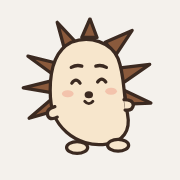
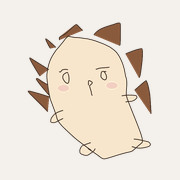
도치: 직접 그린 그림의 선은 그대로 두고 색만 입혀서 사용
- images/doci.png (원본 선 유지, 몸통 크림색·가시 밤색·볼터치)
- 앱 아이콘도 같은 그림으로 교체, 로딩 때 살짝 흔들리게

Claude-Session: https://claude.ai/code/session_01HRZhSQmDeYGswkUaTWCnCH

Changed region(s): [[0.1111, 0.0833, 0.8611, 0.8889]]

diff --git a/kync-ui.js b/kync-ui.js
@@ -63,74 +63,24 @@ const KYNC_CONFIG = {
   window.GOOGLE_G = '<svg width="18" height="18" viewBox="0 0 48 48" aria-hidden="true"><path fill="#FFC107" d="M43.6 20.5H42V20H24v8h11.3C33.7 32.7 29.2 36 24 36c-6.6 0-12-5.4-12-12s5.4-12 12-12c3.1 0 5.8 1.2 7.9 3.1l5.7-5.7C34 6.1 29.3 4 24 4 12.9 4 4 12.9 4 24s8.9 20 20 20 20-8.9 20-20c0-1.3-.1-2.4-.4-3.5z"/><path fill="#FF3D00" d="M6.3 14.7l6.6 4.8C14.7 15.1 19 12 24 12c3.1 0 5.8 1.2 7.9 3.1l5.7-5.7C34 6.1 29.3 4 24 4 16.3 4 9.7 8.3 6.3 14.7z"/><path fill="#4CAF50" d="M24 44c5.2 0 9.9-2 13.4-5.2l-6.2-5.2C29.2 35.1 26.7 36 24 36c-5.2 0-9.6-3.3-11.3-7.9l-6.5 5C9.5 39.6 16.2 44 24 44z"/><path fill="#1976D2" d="M43.6 20.5H42V20H24v8h11.3c-.8 2.2-2.2 4.2-4.1 5.6l6.2 5.2C37 39.2 44 34 44 24c0-1.3-.1-2.4-.4-3.5z"/></svg>';
 })();
 
-/* ── 브랜드: 고슴도치 '도치' (보영이 직접 그린 캐릭터를 다듬은 것) ── */
+/* ── 브랜드: 고슴도치 '도치' — 보영이 직접 그린 그림(선은 그대로, 색만 입힘) ── */
 const KyncBrand = (function () {
-  const C = { line: '#3B2A21', quill: '#8A5A3C', body: '#F7E6CC', blush: '#F0A08C' };
-  const SW = 2.8;
-  const ST = `stroke="${C.line}" stroke-width="${SW}" stroke-linejoin="round" stroke-linecap="round"`;
-  // 살짝 기울어진 몸통
-  const BODY = 'M44 21C60 15 78 21 84 35C90 51 88 64 92 82C95 97 88 106 74 108C62 110 49 106 40 98C30 89 26 79 26 62C26 42 32 27 44 21Z';
-  // 몸 바깥으로 뻗은 가시 (왼쪽 3, 위 3, 오른쪽 2)
-  const SPIKES = [
-    'M32 39L7 33L29 49Z', 'M27 54L3 60L27 64Z', 'M28 69L8 86L32 79Z',
-    'M38 26L32 4L47 20Z', 'M53 17L60 1L66 17Z', 'M73 21L96 11L82 32Z', 'M86 43L111 40L88 56Z', 'M89 62L112 73L91 74Z',
-  ];
+  const SRC = 'images/doci.png';
+  const RATIO = 522 / 477;   // 그림 세로/가로 비율
 
-  function face(mood) {
-    const eye = x => `<ellipse cx="${x}" cy="55" rx="3.3" ry="4.4" fill="${C.line}"/><circle cx="${x + 1}" cy="53.5" r="1" fill="#fff"/>`;
-    let brows = `<path d="M44 44.5l9-1.5M65 43l9 1" stroke="${C.line}" stroke-width="${SW}" stroke-linecap="round"/>`;
-    let eyes = eye(48) + eye(70);
-    let mouth = `<path d="M59 70.5v4" stroke="${C.line}" stroke-width="2.4" stroke-linecap="round"/>`;
-    if (mood === 'happy') {
-      brows = `<path d="M44 42.5q4.5-2.5 9-1M65 41.5q4.5-1.5 9 1" stroke="${C.line}" stroke-width="${SW}" fill="none" stroke-linecap="round"/>`;
-      eyes = `<path d="M44.5 56q3.5-5 7 0M66.5 55q3.5-5 7 0" stroke="${C.line}" stroke-width="${SW}" fill="none" stroke-linecap="round"/>`;
-      mouth = `<path d="M55.5 71.5q3.5 4 7 0" stroke="${C.line}" stroke-width="2.4" fill="none" stroke-linecap="round"/>`;
-    } else if (mood === 'sleepy') {
-      eyes = `<path d="M45 56h7M67 55h7" stroke="${C.line}" stroke-width="${SW}" stroke-linecap="round"/>`;
-    } else if (mood === 'wow') {
-      brows = `<path d="M44 41l9-2M65 39.5l9 2" stroke="${C.line}" stroke-width="${SW}" stroke-linecap="round"/>`;
-      mouth = `<ellipse cx="59" cy="73" rx="2.4" ry="3" fill="${C.line}"/>`;
-    }
-    return `${brows}${eyes}<ellipse cx="59" cy="66" rx="3.6" ry="3" fill="${C.line}"/>${mouth}` +
-      `<ellipse cx="41" cy="65" rx="5" ry="3" fill="${C.blush}" opacity=".5"/><ellipse cx="78" cy="63" rx="5" ry="3" fill="${C.blush}" opacity=".5"/>`;
-  }
-
-  // mood: default | happy | sleepy | wow
+  // size = 가로 폭(px). mood는 예전 호출과 맞추려고 받기만 해요 (그림은 하나)
   function mascot(mood, size, opts) {
     opts = opts || {};
-    const shadow = opts.shadow === false ? '' : `<ellipse cx="62" cy="117" rx="32" ry="4" fill="rgba(43,36,33,.10)"/>`;
-    return `<svg class="mascot ${opts.cls || ''}" width="${size}" height="${Math.round(size * 124 / 120)}" viewBox="0 0 120 124" aria-hidden="true">${shadow}
-      ${SPIKES.map(d => `<path d="${d}" fill="${C.quill}" ${ST}/>`).join('')}
-      <path d="${BODY}" fill="${C.body}" ${ST}/>
-      <path d="M30 76q-8 2-6 8q2 4 8 1" fill="${C.body}" ${ST}/>
-      <path d="M89 70q8 0 8 5q-1 5-7 4" fill="${C.body}" ${ST}/>
-      <ellipse cx="49" cy="111" rx="9" ry="5" fill="${C.body}" ${ST}/>
-      <ellipse cx="84" cy="109" rx="9" ry="5" fill="${C.body}" ${ST}/>
-      ${face(mood)}</svg>`;
+    return `<img class="mascot ${opts.cls || ''}" src="${SRC}" width="${size}" height="${Math.round(size * RATIO)}" alt="" aria-hidden="true" draggable="false">`;
   }
-
-  // 몸을 동그랗게 만 모습 (답을 기다릴 때, 로딩)
+  // 기다리는 중·로딩 (로딩 화면에서는 CSS로 살짝 흔들려요)
   function curled(size, cls) {
-    const spikes = [];
-    for (let i = 0; i < 12; i++) {
-      const a = (i / 12) * Math.PI * 2 - Math.PI / 2, w = 0.2;
-      const p = (r, t) => `${(60 + Math.cos(t) * r).toFixed(1)} ${(60 + Math.sin(t) * r).toFixed(1)}`;
-      spikes.push(`M${p(34, a - w)}L${p(56, a)}L${p(34, a + w)}Z`);
-    }
-    return `<svg class="mascot ${cls || ''}" width="${size}" height="${size}" viewBox="0 0 120 120" aria-hidden="true">
-      ${spikes.map(d => `<path d="${d}" fill="${C.quill}" ${ST}/>`).join('')}
-      <circle cx="60" cy="60" r="36" fill="${C.body}" ${ST}/>
-      <path d="M46 62h8M66 62h8" stroke="${C.line}" stroke-width="${SW}" stroke-linecap="round"/>
-      <ellipse cx="60" cy="71" rx="3.4" ry="2.8" fill="${C.line}"/>
-      <ellipse cx="42" cy="71" rx="5" ry="3" fill="${C.blush}" opacity=".5"/><ellipse cx="78" cy="71" rx="5" ry="3" fill="${C.blush}" opacity=".5"/></svg>`;
+    return mascot('default', size, { cls });
   }
-
-  // 로고: 도치 + kync
   function wordmark(cls) {
-    return `<span class="wordmark ${cls || ''}" aria-label="kync">${mascot('default', 32, { shadow: false, cls: 'wm-mark' })}<span class="wm-text">kync</span></span>`;
+    return `<span class="wordmark ${cls || ''}" aria-label="kync">${mascot('default', 28, { cls: 'wm-mark' })}<span class="wm-text">kync</span></span>`;
   }
-
-  return { mascot, curled, wordmark, C };
+  return { mascot, curled, wordmark, SRC };
 })();
 
 /* ── 화면 도구 ── */

diff --git a/index.html b/index.html
@@ -12,7 +12,8 @@
   <meta name="apple-mobile-web-app-capable" content="yes" />
   <meta name="apple-mobile-web-app-title" content="Kync" />
   <link rel="preload" href="fonts/SUIT-Variable.woff2" as="font" type="font/woff2" crossorigin />
-  <link rel="stylesheet" href="kync.css?v=20261012-3" />
+  <link rel="preload" href="images/doci.png" as="image" />
+  <link rel="stylesheet" href="kync.css?v=20261012-4" />
   <script>
     // 활동 페이지에서 돌아온 경우: 로그인 확인이 끝나면 그 탭을 열어요 (enterApp에서 처리)
     (function () {
@@ -385,17 +386,17 @@
 <script src="https://www.gstatic.com/firebasejs/9.23.0/firebase-auth-compat.js"></script>
 <script src="https://www.gstatic.com/firebasejs/9.23.0/firebase-firestore-compat.js"></script>
 
-<script src="kync-ui.js?v=20261012-3"></script>
-<script src="kync-legal.js?v=20261012-3"></script>
-<script src="firebase-system.js?v=20261012-3"></script>
-<script src="kync-account.js?v=20261012-3"></script>
-<script src="kync-core.js?v=20261012-3"></script>
-<script src="kync-features.js?v=20261012-3"></script>
-<script src="kync-balance.js?v=20261012-3"></script>
-<script src="kync-diary.js?v=20261012-3"></script>
-<script src="kync-quests2.js?v=20261012-3"></script>
-<script src="kync-counsel.js?v=20261012-3"></script>
-<script src="kync-activity.js?v=20261012-3"></script>
+<script src="kync-ui.js?v=20261012-4"></script>
+<script src="kync-legal.js?v=20261012-4"></script>
+<script src="firebase-system.js?v=20261012-4"></script>
+<script src="kync-account.js?v=20261012-4"></script>
+<script src="kync-core.js?v=20261012-4"></script>
+<script src="kync-features.js?v=20261012-4"></script>
+<script src="kync-balance.js?v=20261012-4"></script>
+<script src="kync-diary.js?v=20261012-4"></script>
+<script src="kync-quests2.js?v=20261012-4"></script>
+<script src="kync-counsel.js?v=20261012-4"></script>
+<script src="kync-activity.js?v=20261012-4"></script>
 
 <script>
 // 탭 전환 (selectTab은 kync-ui.js에 있어요)

diff --git a/quiz.html b/quiz.html
@@ -6,7 +6,7 @@
   <title>Kync — 대화 유형 검사</title>
   <meta name="theme-color" content="#F4F1EC" />
   <link rel="icon" href="icons/icon-192.png" />
-  <link rel="stylesheet" href="kync.css?v=20261012-3" />
+  <link rel="stylesheet" href="kync.css?v=20261012-4" />
   <script src="https://cdnjs.cloudflare.com/ajax/libs/Chart.js/4.4.1/chart.umd.min.js"></script>
 </head>
 <body>
@@ -101,12 +101,12 @@
 <script src="https://www.gstatic.com/firebasejs/9.23.0/firebase-app-compat.js"></script>
 <script src="https://www.gstatic.com/firebasejs/9.23.0/firebase-auth-compat.js"></script>
 <script src="https://www.gstatic.com/firebasejs/9.23.0/firebase-firestore-compat.js"></script>
-<script src="kync-ui.js?v=20261012-3"></script>
-<script src="firebase-system.js?v=20261012-3"></script>
+<script src="kync-ui.js?v=20261012-4"></script>
+<script src="firebase-system.js?v=20261012-4"></script>
 <script>
 KyncAuth.onAuthChange(user => { if (!user) location.href = 'index.html'; });
 function goHome(){ Quiz.saveAndGoHome(); }
 </script>
-<script src="quiz.js?v=20261012-3"></script>
+<script src="quiz.js?v=20261012-4"></script>
 </body>
 </html>

diff --git a/activity-quiz.html b/activity-quiz.html
@@ -6,7 +6,7 @@
   <title>Kync — 서로 맞히기</title>
   <meta name="theme-color" content="#F4F1EC" />
   <link rel="icon" href="icons/icon-192.png" />
-  <link rel="stylesheet" href="kync.css?v=20261012-3" />
+  <link rel="stylesheet" href="kync.css?v=20261012-4" />
 </head>
 <body>
 <div class="sub-app">
@@ -28,9 +28,9 @@
 <script src="https://www.gstatic.com/firebasejs/9.23.0/firebase-app-compat.js"></script>
 <script src="https://www.gstatic.com/firebasejs/9.23.0/firebase-auth-compat.js"></script>
 <script src="https://www.gstatic.com/firebasejs/9.23.0/firebase-firestore-compat.js"></script>
-<script src="kync-ui.js?v=20261012-3"></script>
-<script src="firebase-system.js?v=20261012-3"></script>
-<script src="kync-features.js?v=20261012-3"></script>
+<script src="kync-ui.js?v=20261012-4"></script>
+<script src="firebase-system.js?v=20261012-4"></script>
+<script src="kync-features.js?v=20261012-4"></script>
 <script>
   const myRole = localStorage.getItem('kync_role') || 'parent';
   const familyCode = localStorage.getItem('kync_family_code') || 'local';

diff --git a/activity-together.html b/activity-together.html
@@ -6,7 +6,7 @@
   <title>Kync — 밸런스 게임</title>
   <meta name="theme-color" content="#F4F1EC" />
   <link rel="icon" href="icons/icon-192.png" />
-  <link rel="stylesheet" href="kync.css?v=20261012-3" />
+  <link rel="stylesheet" href="kync.css?v=20261012-4" />
 </head>
 <body>
 <div class="sub-app">
@@ -31,9 +31,9 @@
 <script src="https://www.gstatic.com/firebasejs/9.23.0/firebase-app-compat.js"></script>
 <script src="https://www.gstatic.com/firebasejs/9.23.0/firebase-auth-compat.js"></script>
 <script src="https://www.gstatic.com/firebasejs/9.23.0/firebase-firestore-compat.js"></script>
-<script src="kync-ui.js?v=20261012-3"></script>
-<script src="firebase-system.js?v=20261012-3"></script>
-<script src="kync-features.js?v=20261012-3"></script>
+<script src="kync-ui.js?v=20261012-4"></script>
+<script src="firebase-system.js?v=20261012-4"></script>
+<script src="kync-features.js?v=20261012-4"></script>
 <script>
   const myRole = localStorage.getItem('kync_role') || 'parent';
   const familyCode = localStorage.getItem('kync_family_code') || 'local';

diff --git a/activity-balance.html b/activity-balance.html
@@ -6,7 +6,7 @@
   <title>Kync — 취향 맞추기</title>
   <meta name="theme-color" content="#F4F1EC" />
   <link rel="icon" href="icons/icon-192.png" />
-  <link rel="stylesheet" href="kync.css?v=20261012-3" />
+  <link rel="stylesheet" href="kync.css?v=20261012-4" />
 </head>
 <body>
 <div class="sub-app">
@@ -70,9 +70,9 @@
 <script src="https://www.gstatic.com/firebasejs/9.23.0/firebase-app-compat.js"></script>
 <script src="https://www.gstatic.com/firebasejs/9.23.0/firebase-auth-compat.js"></script>
 <script src="https://www.gstatic.com/firebasejs/9.23.0/firebase-firestore-compat.js"></script>
-<script src="kync-ui.js?v=20261012-3"></script>
-<script src="firebase-system.js?v=20261012-3"></script>
-<script src="kync-balance.js?v=20261012-3"></script>
+<script src="kync-ui.js?v=20261012-4"></script>
+<script src="firebase-system.js?v=20261012-4"></script>
+<script src="kync-balance.js?v=20261012-4"></script>
 <script>
   const myRole = localStorage.getItem('kync_role') || 'parent';
   const familyCode = localStorage.getItem('kync_family_code') || 'local';

diff --git a/kync.css b/kync.css
@@ -335,9 +335,12 @@ button.list-row:active, a.list-row:active { background: var(--field); }
   display: none; flex-direction: column; align-items: center; justify-content: center; gap: 14px;
 }
 #kync-global-loader.show { display: flex; }
-#kync-global-loader .mascot { animation: roll 1.1s linear infinite; }
+#kync-global-loader .mascot { animation: wobble 1.2s ease-in-out infinite; }
 .loader-text { font-size: 14px; color: var(--sub); font-weight: 600; min-height: 20px; }
-@keyframes roll { to { transform: rotate(360deg); } }
+@keyframes wobble { 0%, 100% { transform: rotate(-6deg); } 50% { transform: rotate(6deg); } }
+.mascot { display: block; flex: none; user-select: none; -webkit-user-drag: none; }
+.center > .mascot { margin-left: auto; margin-right: auto; }
+.mascot.wobble { animation: wobble 1.6s ease-in-out infinite; transform-origin: 50% 90%; }
 
 /* ═══════════ 시작·가입 ═══════════ */
 .intro-art { flex: 1; display: flex; align-items: center; justify-content: center; min-height: 240px; }

diff --git a/README.md b/README.md
@@ -10,7 +10,7 @@
 ```
 index.html            앱 화면 (가입 단계, 부모·자녀 앱, 설정)
 kync.css              디자인 시스템 (색, 글꼴, 모든 화면 스타일)
-kync-ui.js            공통 UI: 아이콘, 마스코트 '도치'(보영이 직접 그린 캐릭터), 토스트·확인창·시트, 설정값(버전·문의 메일·약관 버전)
+kync-ui.js            공통 UI: 아이콘, 마스코트 '도치'(보영이 직접 그린 그림, images/doci.png), 토스트·확인창·시트, 설정값(버전·문의 메일·약관 버전)
 kync-legal.js         약관·개인정보·국외 이전·AI 상담·보호자 동의 문서 (초안)
 firebase-system.js    Firebase 초기화, 로그인, 가족 연결, 데이터 저장·삭제
 kync-account.js       가입 단계(역할→기본 정보→약관→가족 연결→보호자 동의), 설정, 탈퇴
